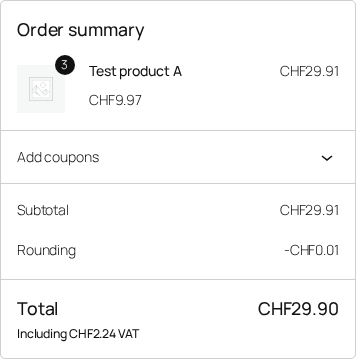
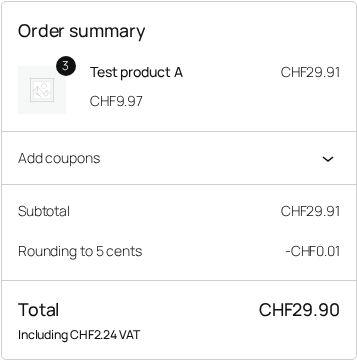
Produktseiten FR/IT/EN: Screenshots der übersetzten Plugins (AbaNinja, bexio, UID-Check, Rappenrundung)
Die Plugins gibt es ab 0.2.0 in EN, DE, FR und IT. Hinweis «Oberfläche vorerst deutsch» entfernt,
Alt-Texte an die neuen Bilder angepasst. Rappenrundung zeigt den übersetzten Standardtext.

Claude-Session: https://claude.ai/code/session_01Bm6WdxE5mR9XaUF5FML8qC

diff --git a/content/fr/abaninja-shop-connector.md b/content/fr/abaninja-shop-connector.md
@@ -9,7 +9,7 @@ description: Plugin WordPress qui crée chaque commande WooCommerce comme adress
 l’adresse et la facture dans AbaNinja, avec toutes les positions, les frais de port,
 les frais et le bon taux de TVA.
 
-![Page de réglages dans l’administration WordPress (interface en allemand) : jeton API, déclencheur, délai de paiement, journal des commandes transmises](/img/abaninja-connector-einstellungen.png)
+![Page de réglages dans l’administration WordPress : jeton API, déclencheur, délai de paiement, journal des commandes transmises](/img/abaninja-connector-einstellungen-fr.png)
 
 ## Ce qu’il fait
 
@@ -23,9 +23,7 @@ les frais et le bon taux de TVA.
   en cas d’erreur, la raison figure dans la commande et un clic la retransmet
 - Ne demande jamais Monsieur ou Madame : les clients sont créés sans formule d’appel devinée
 
-![Note de commande dans WooCommerce (en allemand) : facture AbaNinja RE-0001 créée](/img/abaninja-connector-bestellnotiz.png)
-
-L’interface du plugin est pour l’instant en allemand.
+![Notes de commande dans WooCommerce : facture AbaNinja RE-0001 créée, commande déjà présente dans AbaNinja](/img/abaninja-connector-bestellnotiz-fr.png)
 
 ## Pour qui
 

diff --git a/content/it/abaninja-shop-connector.md b/content/it/abaninja-shop-connector.md
@@ -9,7 +9,7 @@ description: Plugin WordPress che crea ogni ordine WooCommerce come indirizzo e 
 e la fattura in AbaNinja, con tutte le posizioni, le spese di spedizione, le commissioni
 e l’aliquota IVA corretta.
 
-![Pagina delle impostazioni nel backend di WordPress (interfaccia in tedesco): token API, attivazione, termine di pagamento, registro degli ordini trasmessi](/img/abaninja-connector-einstellungen.png)
+![Pagina delle impostazioni nel backend di WordPress: token API, attivazione, termine di pagamento, registro degli ordini trasmessi](/img/abaninja-connector-einstellungen-it.png)
 
 ## Cosa fa
 
@@ -23,9 +23,7 @@ e l’aliquota IVA corretta.
   in caso di errore il motivo è indicato nell’ordine e un clic lo ritrasmette
 - Non chiede mai Signor o Signora: i clienti vengono creati senza appellativo indovinato
 
-![Nota dell’ordine in WooCommerce (in tedesco): fattura AbaNinja RE-0001 creata](/img/abaninja-connector-bestellnotiz.png)
-
-L’interfaccia del plugin per ora è in tedesco.
+![Note dell’ordine in WooCommerce: fattura AbaNinja RE-0001 creata, ordine già presente in AbaNinja](/img/abaninja-connector-bestellnotiz-it.png)
 
 ## Per chi
 

diff --git a/content/fr/bexio-formular-connector.md b/content/fr/bexio-formular-connector.md
@@ -9,7 +9,7 @@ description: Plugin WordPress qui crée les demandes issues de Contact Form 7, W
 devis arrive comme contact dans bexio, et si vous le souhaitez directement avec une
 offre. Vous répondez depuis bexio, avec toutes les données, sans copier-coller.
 
-![Page de réglages dans l’administration WordPress (interface en allemand) : connexion à bexio établie, journal avec nouveau contact et note ajoutée à un contact existant](/img/bexio-connector-einstellungen.png)
+![Page de réglages dans l’administration WordPress : connexion à bexio établie, journal avec nouveau contact et note ajoutée à un contact existant](/img/bexio-connector-einstellungen-fr.png)
 
 ## Ce qu’il fait
 
@@ -21,8 +21,6 @@ offre. Vous répondez depuis bexio, avec toutes les données, sans copier-coller
   contact à un collaborateur et crée une tâche de relance
 - Journal dans l’administration WordPress : ce qui a été transmis et quand, avec le
   message d’erreur si bexio n’était pas joignable
-
-L’interface du plugin est pour l’instant en allemand.
 
 ## Pour qui
 

diff --git a/content/en/abaninja-shop-connector.md b/content/en/abaninja-shop-connector.md
@@ -9,7 +9,7 @@ description: WordPress plugin that creates every WooCommerce order as an address
 address and the invoice in AbaNinja, with all line items, shipping, fees and the
 correct VAT rate.
 
-![Settings page in the WordPress admin (German interface): API token, trigger, payment terms, log of transferred orders](/img/abaninja-connector-einstellungen.png)
+![Settings page in the WordPress admin: API token, trigger, payment terms, log of transferred orders](/img/abaninja-connector-einstellungen-en.png)
 
 ## What it does
 
@@ -23,9 +23,7 @@ correct VAT rate.
   on an error the reason is shown in the order and one click sends it again
 - Never asks for Mr or Ms: customers are created without a guessed salutation
 
-![Order note in WooCommerce (in German): AbaNinja invoice RE-0001 created](/img/abaninja-connector-bestellnotiz.png)
-
-The plugin interface is currently in German.
+![Order notes in WooCommerce: AbaNinja invoice RE-0001 created, order already in AbaNinja](/img/abaninja-connector-bestellnotiz-en.png)
 
 ## Who it is for
 

diff --git a/content/fr/zefix-uid-check.md b/content/fr/zefix-uid-check.md
@@ -10,7 +10,7 @@ numéro IDE, le plugin le vérifie auprès de la Confédération, récupère la 
 et l’adresse dans Zefix et remplit le formulaire. Les entreprises inexistantes ou
 radiées n’arrivent même pas jusqu’à l’achat sur facture.
 
-![Checkout WooCommerce avec champ IDE (en allemand) : le numéro saisi n’est pas inscrit au registre IDE, la commande est refusée](/img/uid-check-checkout-fehler.png)
+![Checkout WooCommerce avec champ IDE : le numéro saisi n’est pas inscrit au registre IDE, la commande est refusée](/img/uid-check-checkout-fehler-fr.png)
 
 ## Ce qu’il fait
 
@@ -22,8 +22,6 @@ radiées n’arrivent même pas jusqu’à l’achat sur facture.
 - Assujettissement à la TVA visible, numéro IDE enregistré dans la commande et le compte client
 - Achat sur facture réservé aux entreprises valides
 - Alerte de mutation : client radié ou déménagé, vous êtes le premier informé
-
-L’interface du plugin est pour l’instant en allemand.
 
 ## Pour qui
 

diff --git a/content/it/bexio-formular-connector.md b/content/it/bexio-formular-connector.md
@@ -9,7 +9,7 @@ description: Plugin WordPress che crea le richieste da Contact Form 7, WPForms, 
 come contatto in bexio, se lo desiderate già con un’offerta. Rispondete da bexio, con
 tutti i dati, senza copia e incolla.
 
-![Pagina delle impostazioni nel backend di WordPress (interfaccia in tedesco): connessione con bexio stabilita, registro con nuovo contatto e nota su un contatto esistente](/img/bexio-connector-einstellungen.png)
+![Pagina delle impostazioni nel backend di WordPress: connessione con bexio stabilita, registro con nuovo contatto e nota su un contatto esistente](/img/bexio-connector-einstellungen-it.png)
 
 ## Cosa fa
 
@@ -21,8 +21,6 @@ tutti i dati, senza copia e incolla.
   collaboratore e crea un’attività di follow-up
 - Registro nel backend di WordPress: cosa è stato trasmesso e quando, con il messaggio
   d’errore se bexio non era raggiungibile
-
-L’interfaccia del plugin per ora è in tedesco.
 
 ## Per chi
 

diff --git a/content/en/bexio-formular-connector.md b/content/en/bexio-formular-connector.md
@@ -9,7 +9,7 @@ description: WordPress plugin that creates enquiries from Contact Form 7, WPForm
 a contact, with a quote straight away if you like. You reply from within bexio, with all
 the data, no copy and paste.
 
-![Settings page in the WordPress admin (German interface): connection to bexio established, log with a new contact and a note on an existing contact](/img/bexio-connector-einstellungen.png)
+![Settings page in the WordPress admin: connection to bexio established, log with a new contact and a note on an existing contact](/img/bexio-connector-einstellungen-en.png)
 
 ## What it does
 
@@ -21,8 +21,6 @@ the data, no copy and paste.
   employee and creates a follow-up task
 - Log in the WordPress admin: what was transferred and when, with the error message
   if bexio could not be reached
-
-The plugin interface is currently in German.
 
 ## Who it is for
 

diff --git a/content/it/zefix-uid-check.md b/content/it/zefix-uid-check.md
@@ -10,7 +10,7 @@ IDI, il plugin lo verifica presso la Confederazione, recupera ragione sociale e 
 da Zefix e compila il modulo. Ditte inesistenti o cancellate non arrivano nemmeno
 all’acquisto su fattura.
 
-![Checkout WooCommerce con campo IDI (in tedesco): il numero inserito non è iscritto nel registro IDI, l’ordine viene rifiutato](/img/uid-check-checkout-fehler.png)
+![Checkout WooCommerce con campo IDI: il numero inserito non è iscritto nel registro IDI, l’ordine viene rifiutato](/img/uid-check-checkout-fehler-it.png)
 
 ## Cosa fa
 
@@ -22,8 +22,6 @@ all’acquisto su fattura.
 - Iscrizione IVA visibile, numero IDI salvato nell’ordine e nel conto cliente
 - Acquisto su fattura solo per ditte valide
 - Avviso di mutazione: cliente cancellato o trasferito, lo sapete per primi
-
-L’interfaccia del plugin per ora è in tedesco.
 
 ## Per chi
 

diff --git a/content/en/zefix-uid-check.md b/content/en/zefix-uid-check.md
@@ -10,7 +10,7 @@ company identification number. The plugin checks it with the federal register, f
 company name and address from Zefix and fills in the form. Wrong or deleted companies
 never get as far as buying on invoice.
 
-![WooCommerce checkout with UID field (in German): the UID entered is not in the UID register, the order is rejected](/img/uid-check-checkout-fehler.png)
+![WooCommerce checkout with UID field: the UID entered is not in the UID register, the order is rejected](/img/uid-check-checkout-fehler-en.png)
 
 ## What it does
 
@@ -22,8 +22,6 @@ never get as far as buying on invoice.
 - VAT registration visible, UID stored in the order and the customer account
 - Buying on invoice only for valid companies
 - Change alert: customer deleted or moved, you are the first to know
-
-The plugin interface is currently in German.
 
 ## Who it is for
 
